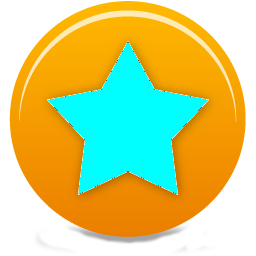
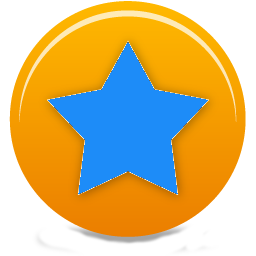
Restyling - pink out, color tuning - pink color final day (except danger notification)

Changed region(s): [[0.1875, 0.1562, 0.8125, 0.75]]

diff --git a/src/custom/apps/research/StockPickingLab.vue b/src/custom/apps/research/StockPickingLab.vue
@@ -16,8 +16,8 @@
            @click="selectCurrencyNot" 
            :title="$t('research.stockPickingLab.filters.currency') + ' ' + $t('research.stockPickingLab.filters.not') + ' ' + $t('research.stockPickingLab.filters.equal')" 
            :class="[ { 'notEqualSelected': selectedCurrencyNot }, 'notEqual' ]"
-           onMouseOver="this.classList.add('notEqualOver')"
-           onMouseOut="this.classList.remove('notEqualOver')">
+           onMouseOver="this.classList.add('notEqualOver'); this.classList.add('mouseOver')"
+           onMouseOut="this.classList.remove('notEqualOver'); this.classList.remove('mouseOver')">
       <base-dropdown v-if="showCurrency" 
                      class="dd" 
                      menu-classes="dropdown-black" 
@@ -39,8 +39,8 @@
            @click="selectExchangeNot" 
            :title="$t('research.stockPickingLab.filters.exchange') + ' ' + $t('research.stockPickingLab.filters.not') + ' ' + $t('research.stockPickingLab.filters.equal')" 
            :class="[ { 'notEqualSelected': selectedExchangeNot }, 'notEqual' ]"
-           onMouseOver="this.classList.add('notEqualOver')"
-           onMouseOut="this.classList.remove('notEqualOver')">
+           onMouseOver="this.classList.add('notEqualOver'); this.classList.add('mouseOver')"
+           onMouseOut="this.classList.remove('notEqualOver'); this.classList.remove('mouseOver')">
       <base-dropdown v-if="showExchange" 
                      class="dd" 
                      menu-classes="dropdown-black" 
@@ -66,8 +66,8 @@
            @click="selectSectorNot" 
            :title="$t('research.stockPickingLab.filters.sector') + ' ' + $t('research.stockPickingLab.filters.not') + ' ' + $t('research.stockPickingLab.filters.equal')" 
            :class="[ { 'notEqualSelected': selectedSectorNot }, 'notEqual' ]"
-           onMouseOver="this.classList.add('notEqualOver')"
-           onMouseOut="this.classList.remove('notEqualOver')">
+           onMouseOver="this.classList.add('notEqualOver'); this.classList.add('mouseOver')"
+           onMouseOut="this.classList.remove('notEqualOver'); this.classList.remove('mouseOver')">
       <base-dropdown v-if="showSector" 
                      class="dd" 
                      menu-classes="dropdown-black" 
@@ -108,8 +108,8 @@
            @click="watchlistDeActivate" 
            :title="watchlistActive ? $t('research.stockPickingLab.filters.watchlistDeactivate') : $t('research.stockPickingLab.filters.watchlistActivate')" 
            :class="{ 'watchlistActive': watchlistActive }"
-           onMouseOver="this.classList.add('watchlistOver')"
-           onMouseOut="this.classList.remove('watchlistOver')">
+           onMouseOver="this.classList.add('mouseOver')"
+           onMouseOut="this.classList.remove('mouseOver')">
     </div>
 
     <!-- pagination -->
@@ -285,7 +285,7 @@
           this.error = true
 
           if (error.message === constants.strings.networkError) {
-            this.notifyAudio('connectionLost', 'danger', this.$t('notifications.beConnectionLost') + '(' + this.$t('sidebar.stockPickingLab') + ')')
+            this.notifyAudio('connectionLost', 'warning', this.$t('notifications.beConnectionLost') + '(' + this.$t('sidebar.stockPickingLab') + ')')
           }
         })
         .finally(() => {
@@ -601,7 +601,8 @@ img.notEqual {
 }
 
 img.notEqualSelected {
-  background: #e14eca;
+  background: #1d8cf8;
+  box-shadow: 0px 0px 20px #1d8cf8;
 }
 
 img.notEqualOver {
@@ -614,10 +615,10 @@ img.notEqualOver {
 }
 
 img.watchlistActive {
-  box-shadow: 0px 0px 20px cyan;
+  box-shadow: 0px 0px 20px #1d8cf8;
 }
 
-img.watchlistOver {
+img.mouseOver {
   box-shadow: 0px 0px 20px red;
 }
 </style>

diff --git a/src/custom/components/FancyChart.vue b/src/custom/components/FancyChart.vue
@@ -206,7 +206,7 @@ export default {
           }
 
           if (error.message === constants.strings.networkError) {
-            this.notifyAudio('connectionLost', 'danger', this.$t('notifications.beConnectionLost') + '(' + this.title + ' ' + this.$t('chart') + ')')
+            this.notifyAudio('connectionLost', 'warning', this.$t('notifications.beConnectionLost') + '(' + this.title + ' ' + this.$t('chart') + ')')
           }
         })
         .finally(() => {
@@ -214,7 +214,7 @@ export default {
             this.loading = false
 
             if (!this.live && !this.error) {
-              this.notifyAudio('connectionLost', 'danger', this.$t('notifications.brokerConnectionLost') + '(' + this.title + ' ' + this.$t('chart') + ')')
+              this.notifyAudio('connectionLost', 'warning', this.$t('notifications.brokerConnectionLost') + '(' + this.title + ' ' + this.$t('chart') + ')')
             }
           }
         });

diff --git a/src/assets/sass/black-dashboard/custom/_variables.scss b/src/assets/sass/black-dashboard/custom/_variables.scss
@@ -100,10 +100,10 @@ $default-color-opacity:      rgba(182, 182, 182, .6) !default;
 $orange-color:               #f96332 !default;
 
 $default:       #344675 !default;
-$primary:       #e14eca !default;
+$primary:       #1d8cf8 !default;//#e14eca !default;
 $secondary:     #f4f5f7 !default;
 $success:       #00f2c3 !default;
-$info:          #1d8cf8 !default;
+$info:          #e14eca !default;//#1d8cf8 !default;
 $warning:       #ff8d72 !default;
 $danger:        #fd5d93 !default;
 $black:         #222a42 !default;

diff --git a/src/custom/components/Cards/FancyCard.vue b/src/custom/components/Cards/FancyCard.vue
@@ -144,7 +144,7 @@ export default {
           this.error = true
 
           if (error.message === constants.strings.networkError) {
-            this.notifyAudio('connectionLost', 'danger', this.$t('notifications.beConnectionLost') + '(' + this.title + ' ' + this.$t('card') + ')')
+            this.notifyAudio('connectionLost', 'warning', this.$t('notifications.beConnectionLost') + '(' + this.title + ' ' + this.$t('card') + ')')
           }
         })
         .finally(() => {

diff --git a/src/custom/components/FancyTable.vue b/src/custom/components/FancyTable.vue
@@ -127,7 +127,7 @@ export default {
             }
 
             if (error.message === constants.strings.networkError) {
-              this.notifyAudio('connectionLost', 'danger', this.$t('notifications.beConnectionLost') + '(' + this.title + ' ' + this.$t('table') + ')')
+              this.notifyAudio('connectionLost', 'warning', this.$t('notifications.beConnectionLost') + '(' + this.title + ' ' + this.$t('table') + ')')
             }
           })
           .finally(() => {

diff --git a/src/assets/sass/black-dashboard/custom/_sidebar-and-main-panel.scss b/src/assets/sass/black-dashboard/custom/_sidebar-and-main-panel.scss
@@ -461,7 +461,6 @@
     float: right;
     width: $full-width;
     min-height: 100vh;
-    border-top: 2px solid $primary;
     // background: linear-gradient($background-black, $background-states-black);
     background: radial-gradient(#1c8484, #061210); // 0e99b1
 
